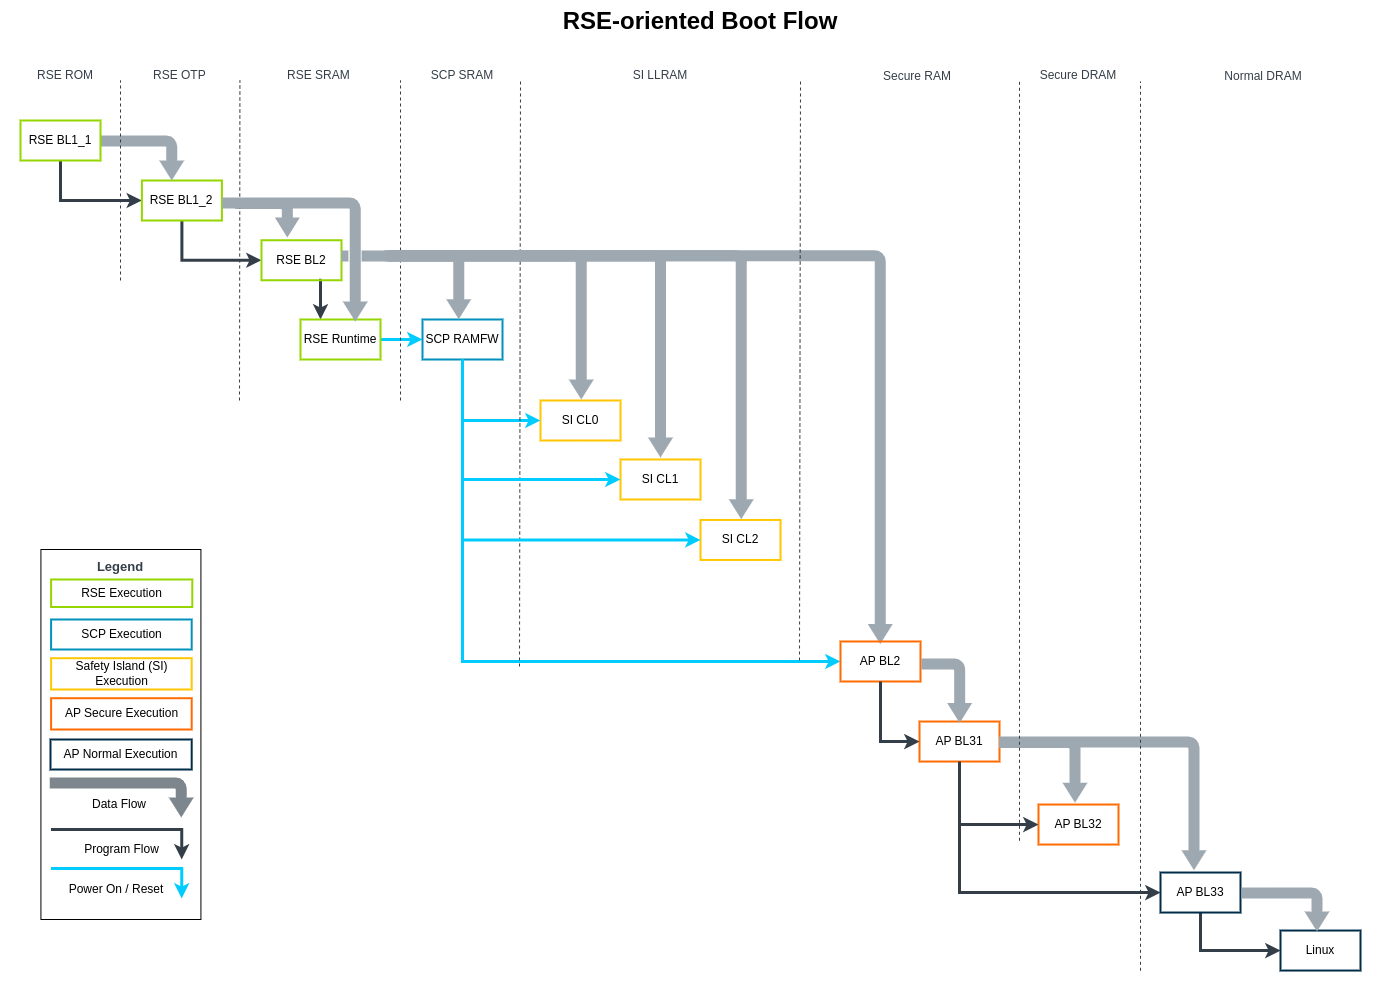
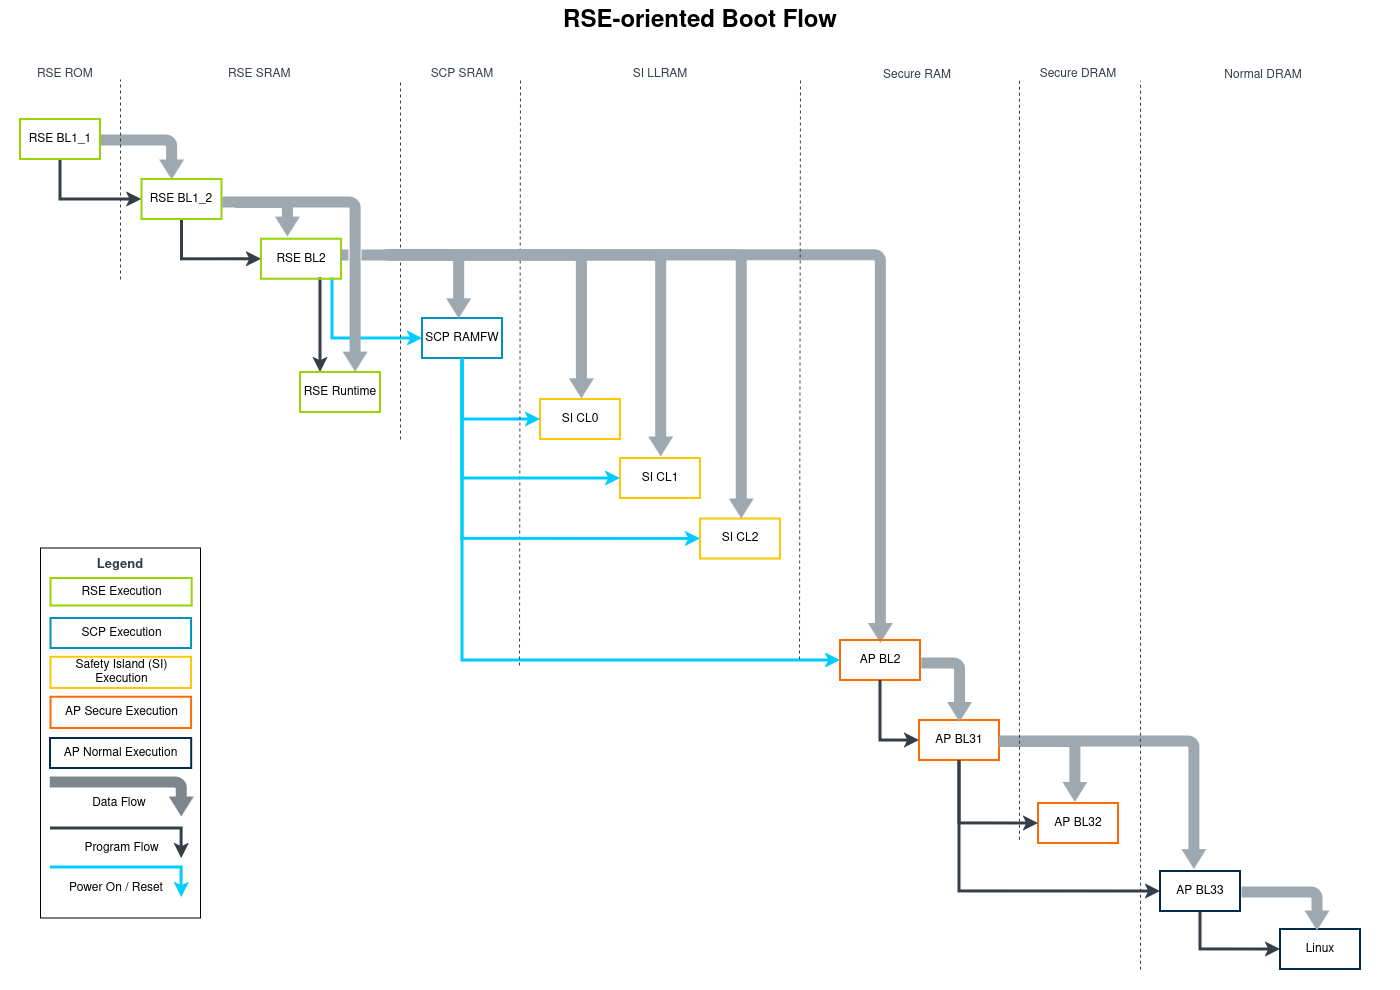
doc: Fix RSE oriented boot flow diagram
Change diagram to show that RSE BL1_2 is executed from SRAM, because
the current diagram suggests that BL1_2 is executed from OTP memory,
which is not the case.
Additionally, change diagram to show that BL2 releases SCP RAMFW from
reset, because the diagram suggests that this is done by RSE Runtime.

diff --git a/documentation/releasenotes.rst b/documentation/releasenotes.rst
@@ -20,6 +20,11 @@ No new features were introduced.
 Changed
 =======
 
+* Change diagram showing RSE-oriented boot flow to show that RSE BL1_2 
+  is executed from SRAM.
+* Change diagram showing RSE-oriented boot flow to show that BL2 releases 
+  SCP RAMFW from reset.
+
 Bug fixes as listed in :ref:`releasenotes_resolvedissues`.
 
 .. _releasenotes_limitations:
